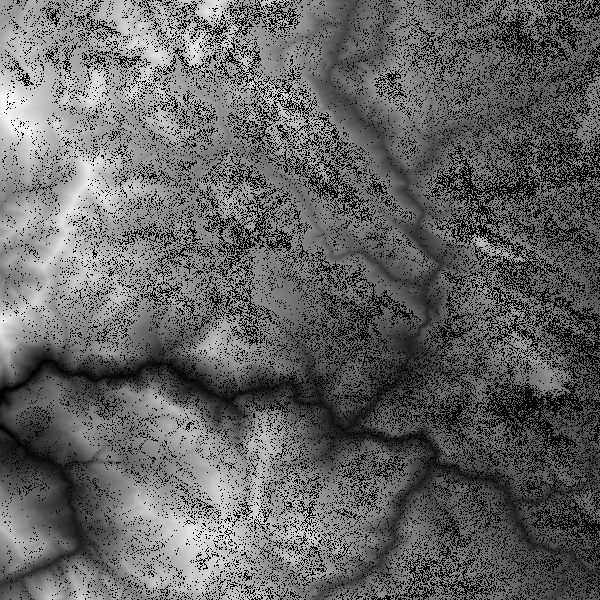
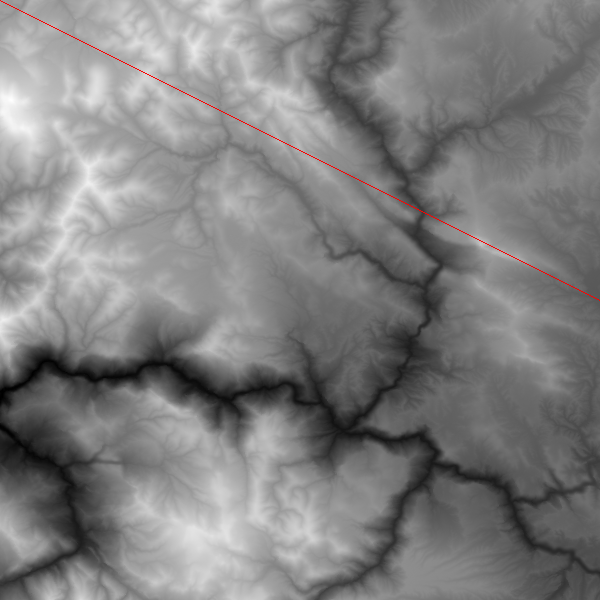
not finished but headed in the right direction now w some help

diff --git a/pathfinder.py b/pathfinder.py
@@ -1,5 +1,5 @@
-from PIL import Image
-from PIL import ImageColor
+from PIL import Image, ImageColor, ImageDraw
+import random
 
 file_small = 'elevation_small.txt'
 file_large = 'elevation_large.txt'
@@ -21,8 +21,6 @@ coordinates = []
 
 
 
-
-
 # opens the file and creates a for loop for each line in the file
 # for each line, append that line to coordinates, while making
 # each piece of elevation in that line into a 'string'
@@ -36,8 +34,6 @@ with open(file_small) as file:
 # print(coordinates[1][0])
 
 # print(coordinates)
-            
-
 
 
 
@@ -52,10 +48,6 @@ max_el = int(max(map(max, coordinates)))
 
 minmax_range = (max_el) - (min_el)
 # print(minmax_range)
-
-# elevation = 4713
-# print(coord)
-
 
 
 
@@ -79,18 +71,222 @@ def RGB(grayscale_value):
     return (int(grayscale_value), int(grayscale_value), int(grayscale_value))
 
 
+# allows for different images to be fed into the future render image function
+dimensions = len(coordinates[0]), len(coordinates)
 
-# grayscale(elevation)
 
-im = Image.new('RGB', (600, 600))
-for row in coordinates:
-        for elevation in row:   
-            im.putpixel((row.index(elevation), coordinates.index(row)), grayscale(elevation))
+# generates the image from the .txt data with a nested loop; 
+im = Image.new('RGB', (dimensions[0], dimensions[1]))
+for x in range(dimensions[0]):
+    for y in range(dimensions[1]):
+        im.putpixel((y, x), grayscale(coordinates[x][y]))
 im.save('elevation_small.png')   
 print(im)
 
-# for x in range(coordinates[0]):
-#     for y in range(coordinates[1]): 
+curr_cell = (0,300)
+
+
+# takes current cell and outputs next cell choice based on closest elevation
+# also handles equivalent elevation & coinflip edge cases 
+def choose_path(curr_cell):
+    fwd_cell = (curr_cell[0]+1, curr_cell[1])
+    up_cell = (curr_cell[0]+1, curr_cell[1]-1)
+    down_cell = (curr_cell[0]+1, curr_cell[1]+1)
+
+    curr_cell_val = get_cell_value(curr_cell)
+    fwd_cell_val = get_cell_value(fwd_cell)
+    up_cell_val = get_cell_value(up_cell)
+    down_cell = get_cell_value(down_cell)
+
+    step_fwd = abs(curr_cell_vall - fwd_cell_val)
+    step_up = abs(curr_cell_val - up_cell_val)
+    step_down = abs(curr_cell_val - down_cell_val)
+
+    if (step_fwd <= step_up) and (step_fwd <= step_down):
+        next_cell = step_fwd
+    elif (step_up < step_down):
+        next_cell = step_up
+    elif (step_down < step_up):
+        next_cell = step_down
+    else:
+        up_or_down = [step_fwd, step_down]
+        next_cell = coinflip(up_or_down)
+        
+
+    return next_cell
+
+
+# takes in coordinates of cell and returns the value/elevation of coordinates
+def get_cell_value(curr_cell):
+    x = curr_cell[0]
+    y = curr_cell[1]
+    
+    return int(coordinates[y,x])
+
+
+# takes in both cell elevations in a list and returns one of their indexes randomly
+def coinflip(up_or_down):
+    return up_or_down[random.randint(0,1)]
+
+
+
+
+
+
+# Greedy Algorithm
+# X is always going to increment +1(right)
+# Y might stay the same, or +1(down) or -1(up) depending on adjacent elevations
+### this isn't what these variables actually are; just what you want to do if the algorithm's if statement chooses them; ie, how we increment the current cell based on the desired elevation choice
+
+
+
+# start_pos = int(input("Where are you starting? (enter an integer from 0-9) "))
+
+# start_pos = 4
+
+
+# start of loop //// for each column in coordinates (refer to other loop?)
+
+# gives you the elevation value in the cell
+# current_elevation = coordinates[start_pos][0]
+
+# gives you the x / y coordinates of the cell -- find a way to get this tomorrow (.indexOf)
+# current_coordinate
+
+# loop that gives us each coordinate, starting at 0,0 0,1 => 9,9
+# for y in range(dimensions[1]):
+#     for x in range(dimensions[0]):
+            # print(y, x)
+
+
+### lots of work done to figure out how to get the future function to work
+# y = 4
+# x = 0
+
+# curr_cell_list = []
+# potential_cells = []
+# curr_coord_list = []
+# pot_path_list = []
+
+# # print(y, x)
+# current_cell = (x, y)
+# print('current cell is ', current_cell)
+# curr_coord_list.append(current_cell)
+# print(curr_coord_list)
+# ## gives us the elevation
+# # print(coordinates[y][x])
+# curr_cell_elev = int(coordinates[y][x])
+# print('current cell elev is ', curr_cell_elev)
+# curr_cell_list.append(curr_cell_elev)
+
+
+
+# fwd_cell = (x+1, y)
+# print('fwd_cell is: ', fwd_cell)
+# fwd_cell_elev = coordinates[y][x+1]
+# pot_path_list.append(fwd_cell)
+# print('fwd_cell_elev is: ', fwd_cell_elev)
+# potential_cells.append(fwd_cell_elev)
+
+# up_cell = (x+1, y-1)
+# print('up_cell is ', up_cell)
+# pot_path_list.append(up_cell)
+# up_cell_elev = coordinates[y-1][x+1]
+# print('up_cell_elev is ', up_cell_elev)
+# potential_cells.append(up_cell_elev)
+
+# down_cell = (x+1, y+1)
+# print('down cell is ', down_cell)
+# pot_path_list.append(down_cell)
+# down_cell_elev = coordinates[y+1][x+1]
+# print('down_cell_elev is ', down_cell_elev)
+# potential_cells.append(down_cell_elev)
+
+# # convert potential_cells list to integers to do absolute value math
+# potential_cells = list(map(int, potential_cells))
+# print('potential cells list: ', potential_cells)
+
+# # check our cell lists
+# print(curr_coord_list)
+# print(pot_path_list)
+
+# # do absolute value math
+# nearest = min(potential_cells, key=lambda v: abs(curr_cell_elev-v))
+# print(nearest)
+
+# # delete first index from current cell list (old current cell, replace with new)
+# curr_cell_list.append(nearest)
+# print(curr_cell_list)
+# del curr_cell_list[0]
+# print(curr_cell_list)
+
+# # clear potential_cells list for next loop
+# potential_cells.clear()
+# print(potential_cells)
+
+
+
+
+# need code to put a pixel down here [function]
+
+#take inventory of cells around you, add those variables to a new list [function]
+# fwd_cell = coordinates[start_pos][x+1]
+# up_cell = coordinates[start_pos-1][x+1]
+# down_cell = coordinates[start_pos+1][x+1]
+# potential_cells = []
+# potential_cells.append(fwd_cell)
+# potential_cells.append(up_cell)
+# potential_cells.append(down_cell)
+
+#  -- do comparison / absolute value math to determine which cell to move in to
+# 
+# 
+# Stack Overflow example for finding nearest integer using absolute value3
+
+
+# > nearest
+# 600
+# that cell becomes new current_cell? ( = current_cell /// reassign current_cell)
+# empty potential_cells list?
+
+# start loop over?
+
+# (x in the loop will always increment once)
+# if current_cell 
+
+
+
+
+# loop over with new current cell
+
+# handle edge cases with a coin flip and situations with equal elevations where forward cell always gets precedence for next current cell
+
+
+
+
+
+# current_cell_elevation = coordinates[0][1]
+## this yields the cell value of x 1 y 0 (you're in the first list[0], at index [1])
+# print(current_cell_elevation)
+## prints 4710 -- the value in the cell
+# adj_cells = [(x+1,y)(x+1,y+1)(x+1,y-1)]
+# fwd_cell = (x+1,y)
+# up_cell = (x+1,y-1) 
+# down_cell = (x+1,y+1)
+
+
+
+
+
+
+
+
+
+# draws a one pixel line bisecting the image
+# draw = ImageDraw.Draw(im)
+# draw.line([(0,start_pos), (600,300)], fill=(255, 0, 0), width=1)
+# im.save('elevation_small.png')
+
 
 
 ## Automate the Boring Stuff test code for .putpixel
@@ -99,3 +295,5 @@ print(im)
 #     for y in range(50,100):
 #         im.putpixel((x,y), ImageColor.getcolor('darkgray', 'RGB'))
 # im.save('putPixel.png')
+
+

diff --git a/README.md b/README.md
@@ -31,7 +31,11 @@ As you go through this assignment, use test-driven development as much as possib
 
 Read [the Mountain Paths PDF](MountainPaths.pdf) to get started.
 
-Read the data from `elevation_small.txt` into an appropriate data structure to get the elevation data. This file is made up of multiple lines. Each line has a list of numbers representing elevation in meters. The elevation is the maximum elevation for a 90m x 90m square.
+#1 
+Read the data from `elevation_small.txt` into an appropriate data structure to get the elevation data. (read the file and store it as a list of lists)
+CHECK OUT READLINES (similar to read() in the poem thing)
+-match each elevation to its coordinates
+ This file is made up of multiple lines. Each line has a list of numbers representing elevation in meters. The elevation is the maximum elevation for a 90m x 90m square.
 
 The numbers in this file are lined up like x-y coordinates. If the file contains the following:
 
